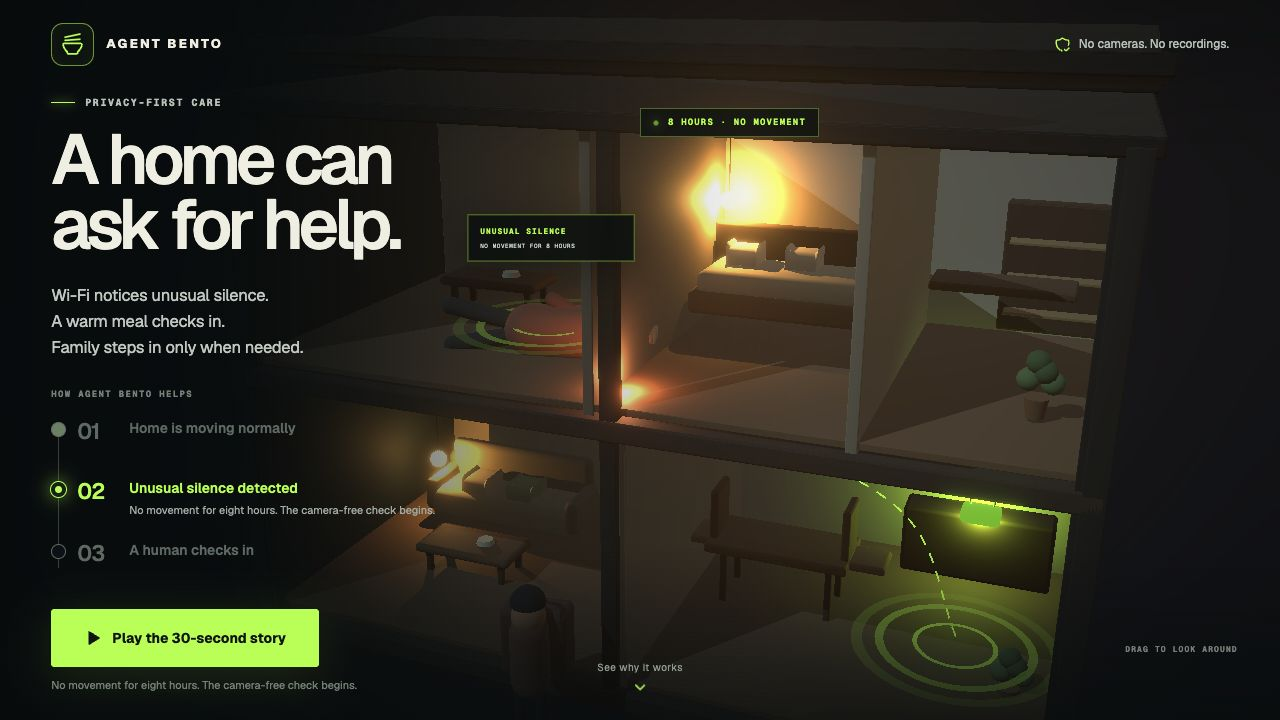
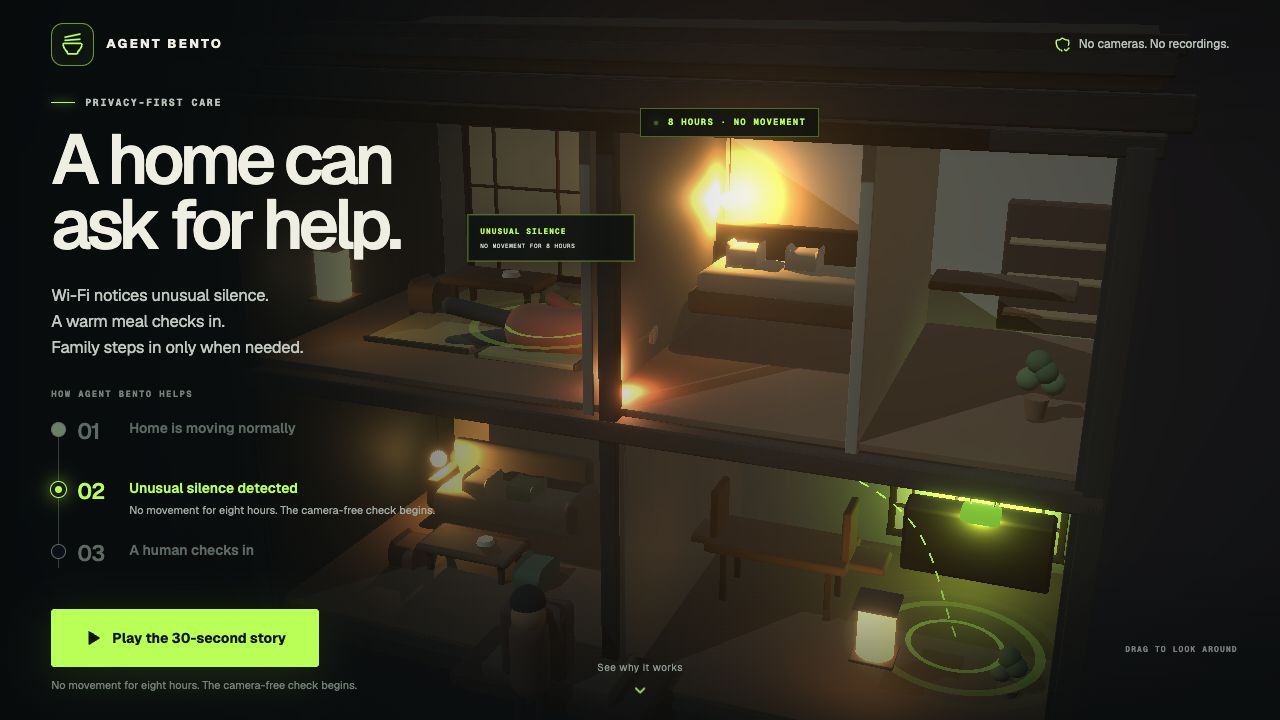
Add Japanese home details to 3D scene

diff --git a/app/HomeScene.tsx b/app/HomeScene.tsx
@@ -133,6 +133,60 @@ function Bed({ position }: { position: Vec3 }) {
   );
 }
 
+function TatamiArea({ position, columns = 2 }: { position: Vec3; columns?: number }) {
+  const mats = Array.from({ length: columns * 2 }, (_, index) => {
+    const column = index % columns;
+    const row = Math.floor(index / columns);
+    return [column * 1.48 - ((columns - 1) * 1.48) / 2, 0, row * 1.34 - 0.67] as Vec3;
+  });
+
+  return (
+    <group position={position}>
+      {mats.map((mat, index) => (
+        <group key={index} position={mat} rotation={[0, index % 2 ? Math.PI / 2 : 0, 0]}>
+          <Block size={[1.38, 0.065, 1.24]} position={[0, 0, 0]} color={index % 2 ? "#a89c65" : "#b6aa72"} radius={0.018} />
+          <Block size={[1.42, 0.07, 0.035]} position={[0, 0.012, -0.62]} color="#4d4932" radius={0.006} />
+          <Block size={[1.42, 0.07, 0.035]} position={[0, 0.012, 0.62]} color="#4d4932" radius={0.006} />
+        </group>
+      ))}
+    </group>
+  );
+}
+
+function ShojiPanel({ position, width = 2.6, height = 2.45 }: { position: Vec3; width?: number; height?: number }) {
+  const verticals = [-0.38, -0.12, 0.12, 0.38];
+  const horizontals = [-0.34, 0, 0.34];
+  return (
+    <group position={position}>
+      <Block size={[width, height, 0.055]} position={[0, 0, 0]} color="#e6dec3" radius={0.015} emissive="#6d5d3c" />
+      <Block size={[width + 0.12, 0.09, 0.09]} position={[0, height / 2, 0.04]} color="#4e3828" radius={0.012} />
+      <Block size={[width + 0.12, 0.09, 0.09]} position={[0, -height / 2, 0.04]} color="#4e3828" radius={0.012} />
+      <Block size={[0.09, height, 0.09]} position={[-width / 2, 0, 0.04]} color="#4e3828" radius={0.012} />
+      <Block size={[0.09, height, 0.09]} position={[width / 2, 0, 0.04]} color="#4e3828" radius={0.012} />
+      {verticals.map((x) => <Block key={x} size={[0.035, height, 0.075]} position={[x * width, 0, 0.045]} color="#71513a" radius={0.006} />)}
+      {horizontals.map((y) => <Block key={y} size={[width, 0.035, 0.075]} position={[0, y * height, 0.045]} color="#71513a" radius={0.006} />)}
+    </group>
+  );
+}
+
+function PaperLantern({ position }: { position: Vec3 }) {
+  return (
+    <group position={position}>
+      <mesh castShadow>
+        <cylinderGeometry args={[0.2, 0.2, 0.58, 20]} />
+        <meshStandardMaterial color="#f5dfb0" emissive="#ffbd69" emissiveIntensity={2.4} roughness={0.9} />
+      </mesh>
+      <Block size={[0.46, 0.035, 0.46]} position={[0, 0.31, 0]} color="#3c2b22" radius={0.01} />
+      <Block size={[0.46, 0.035, 0.46]} position={[0, -0.31, 0]} color="#3c2b22" radius={0.01} />
+      <pointLight color="#ffbd69" intensity={4.5} distance={3.2} />
+    </group>
+  );
+}
+
+function Zabuton({ position, color = "#7d6044" }: { position: Vec3; color?: string }) {
+  return <Block size={[0.62, 0.12, 0.62]} position={position} color={color} radius={0.13} />;
+}
+
 function Router({ position, active }: { position: Vec3; active: boolean }) {
   return (
     <group position={position}>
@@ -293,6 +347,8 @@ function House({ step }: { step: number }) {
 
       <Block size={[9.5, 0.18, 2.9]} position={[0, 6.75, -1.15]} rotation={[0.12, 0, 0]} color="#17201f" radius={0.02} />
       <Block size={[9.5, 0.18, 2.9]} position={[0, 6.72, 1.15]} rotation={[-0.12, 0, 0]} color="#121a19" radius={0.02} />
+      <Block size={[9.9, 0.2, 0.28]} position={[0, 6.91, 0]} color="#0d1515" radius={0.04} />
+      <Block size={[9.85, 0.28, 0.2]} position={[0, 6.54, 2.55]} color="#111a19" radius={0.03} />
 
       <Block size={[0.22, 6.25, 4.6]} position={[-4.6, 3.12, 0]} color={frame} radius={0.02} />
       <Block size={[0.22, 6.25, 4.6]} position={[4.6, 3.12, 0]} color={frame} radius={0.02} />
@@ -308,6 +364,8 @@ function House({ step }: { step: number }) {
 
       <Sofa position={[-2.8, 0.16, -0.8]} />
       <LowTable position={[-2.65, 0.16, 0.55]} />
+      <Zabuton position={[-3.55, 0.26, 0.6]} color="#8b5948" />
+      <Zabuton position={[-1.75, 0.26, 0.55]} color="#5e745d" />
       <Plant position={[-4.0, 0.2, -1.45]} scale={0.9} />
       <WarmLamp position={[-3.9, 1.05, -0.7]} />
       <DiningSet position={[1.25, 0.16, -0.2]} />
@@ -315,12 +373,22 @@ function House({ step }: { step: number }) {
       <Router position={[3.45, 1.2, -1.4]} active={step > 0} />
       <Plant position={[4.05, 0.18, 0.85]} scale={0.75} />
 
+      <ShojiPanel position={[3.35, 1.72, -2.08]} width={2.15} height={2.55} />
+      <PaperLantern position={[2.7, 1.04, 1.45]} />
+      <Block size={[2.25, 0.18, 1.05]} position={[-0.5, 0.25, 2.38]} color="#4b3528" radius={0.025} />
+      <Block size={[1.5, 0.18, 0.78]} position={[-0.5, 0.42, 2.46]} color="#76624d" radius={0.025} />
+
+      <TatamiArea position={[-2.18, 3.41, -0.1]} columns={2} />
       <Bed position={[0.95, 3.48, -1.18]} />
       <LowTable position={[-2.65, 3.48, -0.4]} />
+      <Zabuton position={[-3.55, 3.58, -0.25]} color="#765a43" />
+      <Zabuton position={[-1.72, 3.58, -0.35]} color="#69745c" />
+      <ShojiPanel position={[-2.12, 4.73, -2.08]} width={3.75} height={2.48} />
       <Block size={[1.6, 0.1, 0.68]} position={[3.45, 4.18, -1.2]} color="#6c4e37" radius={0.03} />
       <Block size={[1.25, 1.55, 0.26]} position={[4.0, 4.28, -1.82]} color="#5a4130" radius={0.04} />
       {[3.78, 4.2, 4.62].map((y) => <Block key={y} size={[1.1, 0.04, 0.32]} position={[4, y, -1.61]} color="#a9875f" radius={0.01} />)}
       <WarmLamp position={[0.0, 4.84, -1.68]} />
+      <PaperLantern position={[-3.9, 4.24, 1.32]} />
       <Plant position={[4.0, 3.52, 0.95]} scale={0.75} />
 
       {step === 0 ? <UprightResident /> : <FallenResident visible />}

diff --git a/AGENT.md b/AGENT.md
@@ -96,6 +96,7 @@ Model output must use a versioned structured schema, be validated before use, ha
 - Three story states controlled by an accessible tab list.
 - Automatic story playback with pause and replay controls.
 - Fallen resident, ambient signal rings, signal path, router, courier, and bento bag.
+- Japanese home details including tatami flooring, shoji screens, zabuton cushions, paper lanterns, a genkan step, and deep roof eaves.
 - Privacy and product explanation visible on the first screen.
 - Reduced-motion behavior.
 - Production build and rendered HTML tests.
@@ -247,6 +248,12 @@ A product feature is done when:
 - Documented what is implemented, simulated, and planned.
 - Defined the target state machine, service boundaries, model limits, safety principles, and implementation order.
 
+### 2026-07-23 — Japanese home art direction
+
+- Strengthened the 3D scene as a recognizably Japanese home rather than a generic cutaway house.
+- Added tatami rooms, illuminated shoji panels, zabuton floor cushions, paper lanterns, a genkan entrance step, and heavier tiled-roof silhouettes.
+- Preserved the fallen-resident signal, bento check-in flow, accessibility, and story controls while adding the cultural details.
+
 ## 14. Next work, in order
 
 1. Implement shared incident types and the deterministic transition engine.
@@ -259,4 +266,3 @@ A product feature is done when:
 8. Add the Qwen structured-output adapter and deterministic fallback.
 9. Build consent, contact, incident history, and manual-resolution interfaces.
 10. Conduct privacy, accessibility, failure-mode, and field testing before a pilot.
-

diff --git a/design-qa.md b/design-qa.md
@@ -1,6 +1,6 @@
 # Agent Bento redesign QA
 
-Status: PASS
+Final result: passed
 
 Compared the selected cinematic cutaway reference with the implementation at a 1440px desktop viewport, then verified the responsive layout at 390px.
 
@@ -22,6 +22,7 @@ Compared the selected cinematic cutaway reference with the implementation at a 1
 | P2 | Courier callout overlapped the timeline | Resolved by moving the courier and callout into the central doorway area |
 | P2 | First-visit meaning needed to read before interaction | Pass: headline, three-line explanation, privacy promise, and three-step sequence are visible immediately |
 | P2 | Mobile layout needed a clear reading order | Pass: explanation and controls appear first, with the interactive 3D house immediately below |
+| P2 | House needed a recognizably Japanese identity | Pass: tatami rooms, illuminated shoji screens, zabuton cushions, paper lanterns, genkan step, and deeper roof eaves read clearly without obscuring the fall signal |
 | P3 | Three.js emits deprecation warnings for its internal clock/shadow-map APIs | Non-blocking dependency warning; no visual or interaction impact |
 
 ## Interaction checks
